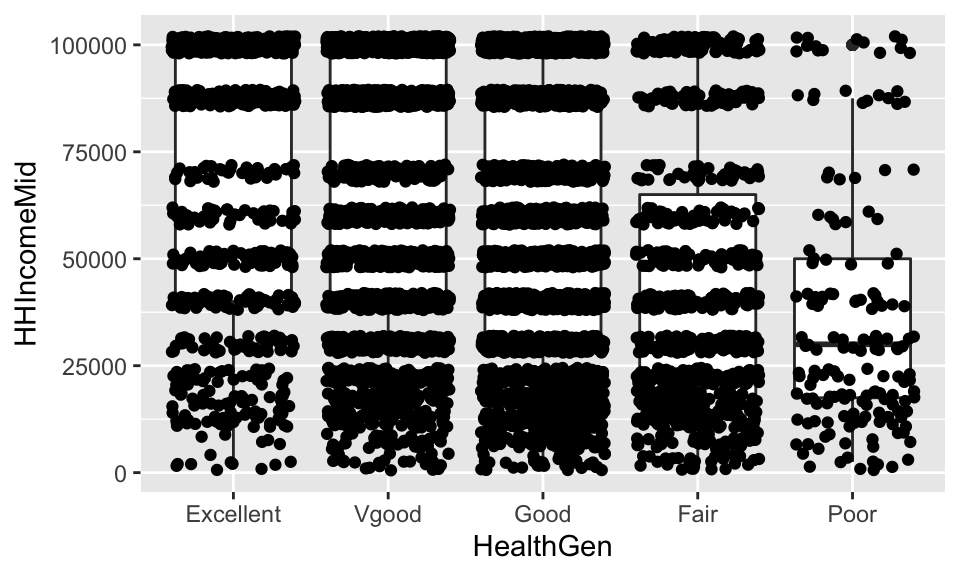
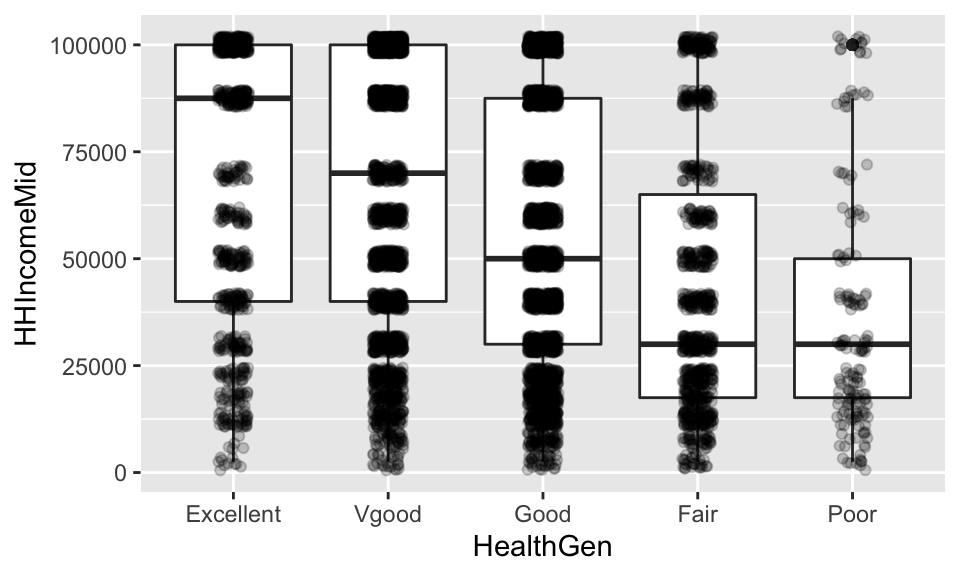
chp5 updates

Changed region(s): [[0.1562, 0.25, 0.9688, 0.8438], [0.1562, 0.0312, 0.9688, 0.2188]]

diff --git a/Math154/Notes/permschp.html b/Math154/Notes/permschp.html
@@ -1042,7 +1042,7 @@ print((sum(obs.um.ci.stat>=perm.um.ci.stat)+1)/4000)
 <div class="sourceCode" id="cb359"><pre class="sourceCode r"><code class="sourceCode r"><a class="sourceLine" id="cb359-1" data-line-number="1">NHANES <span class="op">%&gt;%</span><span class="st"> </span><span class="kw">filter</span>(<span class="op">!</span><span class="kw">is.na</span>(HealthGen)<span class="op">&amp;</span><span class="st"> </span><span class="op">!</span><span class="kw">is.na</span>(HHIncomeMid)) <span class="op">%&gt;%</span><span class="st"> </span></a>
 <a class="sourceLine" id="cb359-2" data-line-number="2"><span class="kw">ggplot</span>(<span class="kw">aes</span>(<span class="dt">x=</span>HealthGen, <span class="dt">y=</span>HHIncomeMid)) <span class="op">+</span><span class="st"> </span></a>
 <a class="sourceLine" id="cb359-3" data-line-number="3"><span class="st">  </span><span class="kw">geom_boxplot</span>() <span class="op">+</span><span class="st"> </span></a>
-<a class="sourceLine" id="cb359-4" data-line-number="4"><span class="st">  </span><span class="kw">geom_jitter</span>()</a></code></pre></div>
+<a class="sourceLine" id="cb359-4" data-line-number="4"><span class="st">  </span><span class="kw">geom_jitter</span>(<span class="dt">width=</span><span class="fl">0.1</span>, <span class="dt">alpha=</span>.<span class="dv">2</span>)</a></code></pre></div>
 <p><img src="05-permutation_files/figure-html/unnamed-chunk-28-1.png" width="480" style="display: block; margin: auto;" /></p>
 <p>The differences in health, can be calculated directly, but we still don’t know if the differences are due to randome chance or some other larger structure.</p>
 <div class="sourceCode" id="cb360"><pre class="sourceCode r"><code class="sourceCode r"><a class="sourceLine" id="cb360-1" data-line-number="1">diff.mat =<span class="st"> </span><span class="kw">data.frame</span>(<span class="kw">matrix</span>(<span class="dt">ncol=</span><span class="dv">5</span>, <span class="dt">nrow=</span><span class="dv">5</span>))</a>

diff --git a/Math154/Notes/05-permutation.md b/Math154/Notes/05-permutation.md
@@ -914,7 +914,7 @@ Are the differences in means simply due to random chance??
 NHANES %>% filter(!is.na(HealthGen)& !is.na(HHIncomeMid)) %>% 
 ggplot(aes(x=HealthGen, y=HHIncomeMid)) + 
   geom_boxplot() + 
-  geom_jitter()
+  geom_jitter(width=0.1, alpha=.2)
 ```
 
 <img src="05-permutation_files/figure-html/unnamed-chunk-28-1.png" width="480" style="display: block; margin: auto;" />
